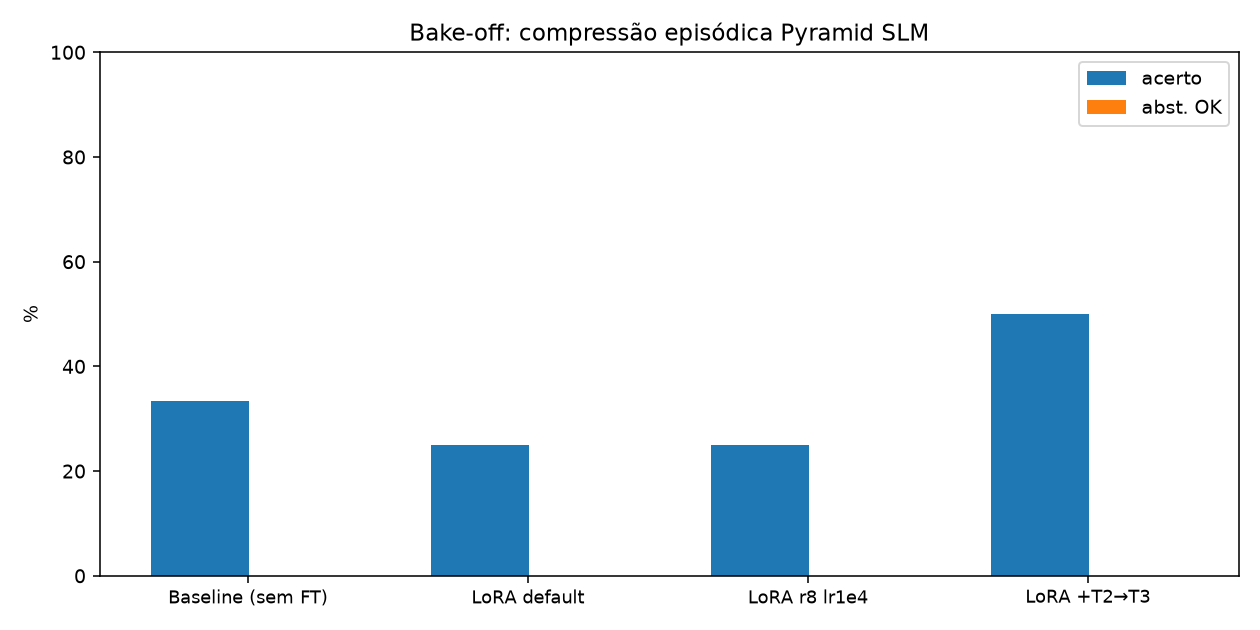
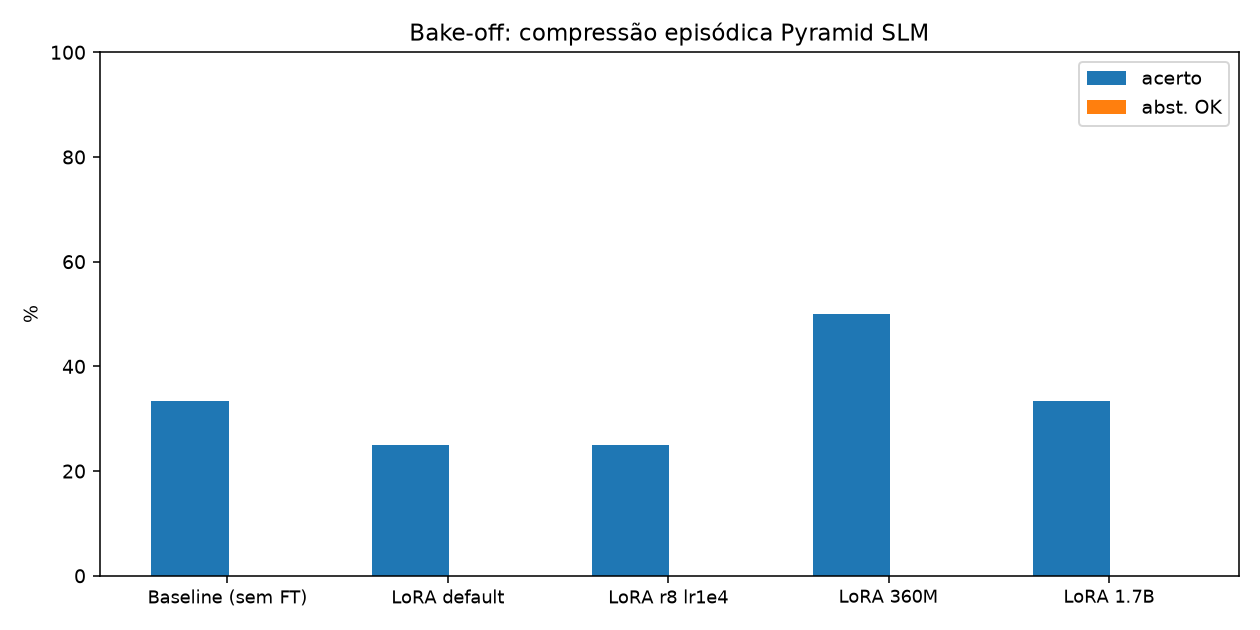
Avalia LoRA 1.7B no gabarito e documenta sweep + bake-off no README.

Changed region(s): [[0.2786, 0.4825, 0.7429, 0.9651], [0.7738, 0.4825, 0.9286, 0.9651], [0.0929, 0.6333, 0.2786, 0.9651]]

diff --git a/scripts/bakeoff.py b/scripts/bakeoff.py
@@ -21,7 +21,8 @@ ROTAS = [
     ("baseline", "Baseline\n(sem FT)"),
     ("lora_default", "LoRA\ndefault"),
     ("lora_r8_lr1e4", "LoRA\nr8 lr1e4"),
-    ("lora_r16_t23", "LoRA\n+T2→T3"),
+    ("lora_r16_t23", "LoRA\n360M"),
+    ("lora_r16_1b7", "LoRA\n1.7B"),
 ]
 
 METRICAS = [

diff --git a/README.md b/README.md
@@ -96,10 +96,34 @@ Gerados por `scripts/generate_synthetic.py` (3 clusters):
 
 ## Resultados
 
-- Adapter: `runs/lora_r16_1b7/`
-- Métricas: `runs/resultados/`
-- Bake-off: `runs/bakeoff.png`
-- Compressão no Gradio (exemplo Auth JWT): ~721 → ~200 caracteres (**~3.5×**) no SLM; heurística ~7× (mais curta, sem narrativa)
+### Hiperparâmetros testados (GPU)
+
+| tag | modelo | r | lr | epochs | T2→T3 | train loss |
+|-----|--------|---|----|--------|-------|------------|
+| baseline | 360M Instruct | — | — | — | — | — |
+| default | 360M LoRA | 16 | 2e-4 | 2 | sim | 2.32 |
+| r8_lr1e4 | 360M LoRA | 8 | 1e-4 | 3 | não | 2.21 |
+| r16_t23 | 360M LoRA | 16 | 2e-4 | 6 | sim | 1.73 |
+| r16_1b7 | **1.7B LoRA** | 16 | 1e-4 | 3 | sim | 1.85 |
+
+### Avaliação no gabarito (12 itens held-out)
+
+Métricas por palavras-chave / abstenção (`scripts/evaluate.py`):
+
+| rota | acerto geral | factual | síntese | abstenção OK |
+|------|--------------|---------|---------|--------------|
+| baseline | 33.3% | 60% | 25% | 0% |
+| default | 25.0% | 40% | 25% | 0% |
+| r8_lr1e4 | 25.0% | 40% | 25% | 0% |
+| **r16_t23** | **50.0%** | **80%** | **50%** | 0% |
+| r16_1b7 | 33.3% | 40% | 50% | 0% |
+
+Melhor no gabarito automático: `r16_t23` (360M). O `r16_1b7` é o usado no Gradio (melhor prosa / compressão narrativa com few-shot). Abstenção permanece 0% — o fine-tune favorece responder sempre (mesmo padrão observado na disciplina).
+
+### Compressão no frontend
+
+Exemplo Auth JWT: ~721 → ~200 caracteres (**~3.5×**) no SLM; heurística ~7× (mais curta, sem narrativa).  
+Adapter principal: `runs/lora_r16_1b7/` · JSON: `runs/resultados/` · gráfico: `runs/bakeoff.png`
 
 ### Evidências
 
